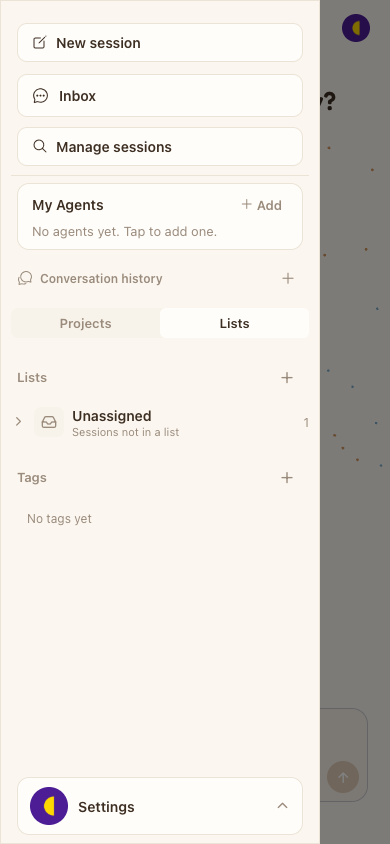
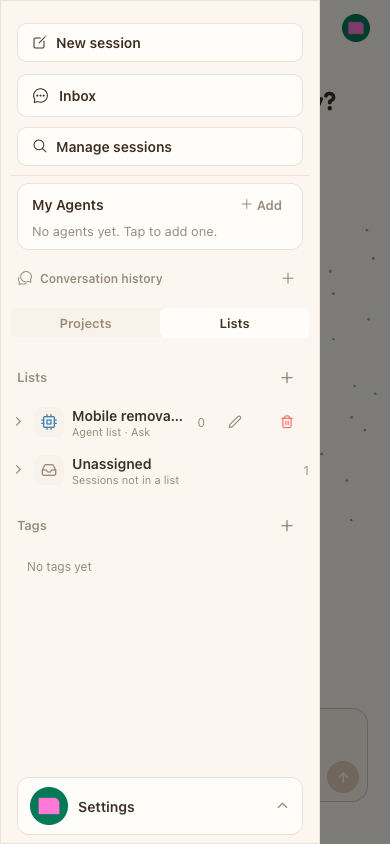
fix(app): expose sidebar list delete action

diff --git a/packages/happy-app/sources/components/DesktopSidebarSessionsNavigation.tsx b/packages/happy-app/sources/components/DesktopSidebarSessionsNavigation.tsx
@@ -141,6 +141,14 @@ const stylesheet = StyleSheet.create((theme) => ({
         minHeight: 46,
         paddingHorizontal: 10,
     },
+    listRowMain: {
+        alignItems: 'center',
+        alignSelf: 'stretch',
+        flex: 1,
+        flexDirection: 'row',
+        gap: 8,
+        minWidth: 0,
+    },
     listRowPressed: { backgroundColor: theme.colors.surfacePressed },
     listGlyph: { alignItems: 'center', borderRadius: 7, height: 30, justifyContent: 'center', width: 30 },
     listCopy: { flex: 1, minWidth: 0 },
@@ -454,6 +462,15 @@ function SidebarListsView() {
     const closeEditor = React.useCallback(() => setEditorVisible(false), []);
     const openSession = React.useCallback((session: SessionRowData) => navigateToSession(session.id), [navigateToSession]);
     const openOrganizer = React.useCallback((session: SessionRowData) => setOrganizingSession(session), []);
+    const deleteList = React.useCallback(async (list: SidebarList) => {
+        const confirmed = await Modal.confirm(
+            t('sidebarLists.deleteList'),
+            t('sidebarLists.deleteListConfirm', { name: list.name }),
+            { cancelText: t('common.cancel'), confirmText: t('common.delete'), destructive: true },
+        );
+        if (!confirmed) return;
+        updateOrganization((current) => removeSidebarList(current, list.id));
+    }, [updateOrganization]);
 
     const rows = React.useMemo<SidebarVirtualRow[]>(() => {
         const next: SidebarVirtualRow[] = [];
@@ -526,20 +543,25 @@ function SidebarListsView() {
                 : [list.machineId, list.path].filter(Boolean).join(' · ') || t('sidebarLists.workspaceList');
             return (
                 <View style={styles.listBlock}>
-                    <Pressable accessibilityRole="button" accessibilityState={{ expanded: isExpanded }} onPress={() => toggleExpanded(list.id)} style={({ pressed }) => [styles.listRow, pressed && styles.listRowPressed]} testID={`sidebar-list-${list.id}`}>
-                        <Feather color={theme.colors.textSecondary} name={isExpanded ? 'chevron-down' : 'chevron-right'} size={15} />
-                        <View style={[styles.listGlyph, { backgroundColor: theme.colors.surfaceHigh }]}>
-                            <Feather color={listColors[list.color]} name={list.kind === 'agent' ? 'cpu' : 'folder'} size={16} />
-                        </View>
-                        <View style={styles.listCopy}>
-                            <Text numberOfLines={1} style={styles.listName}>{list.name}</Text>
-                            <Text numberOfLines={1} style={styles.listMeta}>{meta}</Text>
-                        </View>
+                    <View style={styles.listRow}>
+                        <Pressable accessibilityRole="button" accessibilityState={{ expanded: isExpanded }} onPress={() => toggleExpanded(list.id)} style={({ pressed }) => [styles.listRowMain, pressed && styles.listRowPressed]} testID={`sidebar-list-${list.id}`}>
+                            <Feather color={theme.colors.textSecondary} name={isExpanded ? 'chevron-down' : 'chevron-right'} size={15} />
+                            <View style={[styles.listGlyph, { backgroundColor: theme.colors.surfaceHigh }]}>
+                                <Feather color={listColors[list.color]} name={list.kind === 'agent' ? 'cpu' : 'folder'} size={16} />
+                            </View>
+                            <View style={styles.listCopy}>
+                                <Text numberOfLines={1} style={styles.listName}>{list.name}</Text>
+                                <Text numberOfLines={1} style={styles.listMeta}>{meta}</Text>
+                            </View>
+                        </Pressable>
                         <Text style={styles.count}>{sessionIndex.byListId.get(list.id)?.length ?? 0}</Text>
-                        <Pressable accessibilityLabel={`${t('sidebarLists.editList')} ${list.name}`} onPress={(event) => { event.stopPropagation(); openEdit(list); }} style={({ pressed }) => [styles.iconButton, pressed && styles.iconButtonPressed]} testID={`sidebar-edit-list-${list.id}`}>
+                        <Pressable accessibilityLabel={`${t('sidebarLists.editList')} ${list.name}`} accessibilityRole="button" onPress={() => openEdit(list)} style={({ pressed }) => [styles.iconButton, pressed && styles.iconButtonPressed]} testID={`sidebar-edit-list-${list.id}`}>
                             <Feather color={theme.colors.textSecondary} name="edit-2" size={14} />
                         </Pressable>
-                    </Pressable>
+                        <Pressable accessibilityLabel={`${t('sidebarLists.deleteList')} ${list.name}`} accessibilityRole="button" onPress={() => void deleteList(list)} style={({ pressed }) => [styles.iconButton, pressed && styles.iconButtonPressed]} testID={`sidebar-delete-list-${list.id}`}>
+                            <Feather color={theme.colors.deleteAction} name="trash-2" size={14} />
+                        </Pressable>
+                    </View>
                 </View>
             );
         }
@@ -583,7 +605,7 @@ function SidebarListsView() {
                 {organization.tags.length === 0 ? <Text style={styles.empty}>{t('sidebarLists.noTags')}</Text> : null}
             </View>
         );
-    }, [addTag, createSession, expanded, listColors, openCreate, openEdit, openOrganizer, openSession, organization.lists.length, organization.tags, selectedSessionId, selectedTagId, sessionIndex, styles, theme.colors]);
+    }, [addTag, createSession, deleteList, expanded, listColors, openCreate, openEdit, openOrganizer, openSession, organization.lists.length, organization.tags, selectedSessionId, selectedTagId, sessionIndex, styles, theme.colors]);
 
     return (
         <View style={styles.container} testID="sidebar-lists-view">

diff --git a/packages/happy-app/sources/components/DesktopSidebarSessionsNavigation.test.tsx b/packages/happy-app/sources/components/DesktopSidebarSessionsNavigation.test.tsx
@@ -150,13 +150,16 @@ describe('DesktopSidebarSessionsNavigation', () => {
         let renderer: any;
         act(() => { renderer = TestRenderer.create(<DesktopSidebarSessionsNavigation />); });
         act(() => renderer.root.findByProps({ testID: 'desktop-sidebar-tab-lists' }).props.onPress());
-        act(() => renderer.root.findByProps({ testID: 'sidebar-edit-list-happy' }).props.onPress({ stopPropagation: vi.fn() }));
+        act(() => renderer.root.findByProps({ testID: 'sidebar-edit-list-happy' }).props.onPress());
 
         expect(renderer.root.findByProps({ testID: 'sidebar-list-name-input' }).props.value).toBe('Happy');
         expect(renderer.root.findAllByType('PickerContent').length).toBeGreaterThan(0);
         expect(renderer.root.findByProps({ testID: 'sidebar-list-directory-picker' }).findByType('PathPickerContent').props).toMatchObject({
             machineId: 'mac',
             manualInput: false,
+        });
+        expect(renderer.root.findByProps({ testID: 'sidebar-delete-list-happy' }).props).toMatchObject({
+            accessibilityRole: 'button',
         });
         act(() => renderer.root.findByProps({ testID: 'sidebar-list-directory-none' }).props.onPress());
         expect(renderer.root.findByProps({ testID: 'sidebar-list-directory-picker' }).findByType('PathPickerContent').props.value).toBe('');
@@ -190,7 +193,7 @@ describe('DesktopSidebarSessionsNavigation', () => {
         let renderer: any;
         act(() => { renderer = TestRenderer.create(<DesktopSidebarSessionsNavigation />); });
         act(() => renderer.root.findByProps({ testID: 'desktop-sidebar-tab-lists' }).props.onPress());
-        act(() => renderer.root.findByProps({ testID: 'sidebar-edit-list-happy' }).props.onPress({ stopPropagation: vi.fn() }));
+        act(() => renderer.root.findByProps({ testID: 'sidebar-edit-list-happy' }).props.onPress());
         act(() => renderer.root.findByProps({ testID: 'sidebar-list-name-input' }).props.onChangeText('Happy renamed'));
         act(() => renderer.root.findByProps({ testID: 'sidebar-edit-list-submit' }).props.onPress());
 
@@ -205,10 +208,9 @@ describe('DesktopSidebarSessionsNavigation', () => {
         } as any;
         expect(rename(current).lists[0].name).toBe('Happy renamed');
 
-        act(() => renderer.root.findByProps({ testID: 'sidebar-edit-list-happy' }).props.onPress({ stopPropagation: vi.fn() }));
         mocks.confirm.mockResolvedValueOnce(true);
         await act(async () => {
-            renderer.root.findByProps({ testID: 'sidebar-delete-list' }).props.onPress();
+            renderer.root.findByProps({ testID: 'sidebar-delete-list-happy' }).props.onPress();
             await Promise.resolve();
             await Promise.resolve();
         });
@@ -225,7 +227,7 @@ describe('DesktopSidebarSessionsNavigation', () => {
         act(() => { renderer = TestRenderer.create(<DesktopSidebarSessionsNavigation />); });
         act(() => renderer.root.findByProps({ testID: 'desktop-sidebar-tab-lists' }).props.onPress());
         act(() => renderer.root.findByProps({ testID: 'sidebar-list-advisor' }).props.onPress());
-        act(() => renderer.root.findByProps({ testID: 'sidebar-edit-list-advisor' }).props.onPress({ stopPropagation: vi.fn() }));
+        act(() => renderer.root.findByProps({ testID: 'sidebar-edit-list-advisor' }).props.onPress());
         expect(renderer.root.findAllByProps({ accessibilityLabel: 'newSession.askMode' })[0].props.accessibilityState).toEqual({ checked: true, disabled: true });
         act(() => renderer.root.findByProps({ testID: 'sidebar-create-list-cancel' }).props.onPress());
         act(() => renderer.root.findByProps({ testID: 'sidebar-new-session-advisor' }).props.onPress());

diff --git a/packages/happy-app/e2e/sidebar-lists-tags.spec.ts b/packages/happy-app/e2e/sidebar-lists-tags.spec.ts
@@ -399,8 +399,30 @@ test('[SIDEBAR-LISTS-TAGS-MOBILE] mobile drawer exposes Projects and Lists tabs'
         await expectMobileTouchTarget(page.getByTestId('sidebar-list-kind-workspace'));
         await expectMobileTouchTarget(page.getByTestId('sidebar-list-color-blue'));
         await expectMobileTouchTarget(page.getByTestId('sidebar-create-list-submit'));
-        await page.getByTestId('sidebar-create-list-cancel').click();
+        await page.getByTestId('sidebar-list-name-input').fill('Mobile removable');
+        await page.getByTestId('sidebar-list-kind-agent').click();
+        await page.getByTestId('sidebar-create-list-submit').click();
         await expect(page.getByText('New list', { exact: true })).toHaveCount(0);
+        const removableList = page.getByText('Mobile removable', { exact: true });
+        await expect(removableList).toBeVisible();
+        const deleteButton = page.getByRole('button', { name: 'Delete list Mobile removable', exact: true });
+        await expectMobileTouchTarget(deleteButton);
+        await expect(page.getByText(/cannot contain a nested/i)).toHaveCount(0);
+        await pauseForReview(page);
+        await captureEvidenceFrame(page, testInfo, 'mobile-02-delete-action');
+        await deleteButton.click();
+        await expect(page.getByText('Delete list', { exact: true })).toBeVisible();
+        await pauseForReview(page);
+        await captureEvidenceFrame(page, testInfo, 'mobile-03-delete-confirm');
+        await page.getByRole('button', { name: 'Delete', exact: true }).click();
+        await expect(removableList).toHaveCount(0);
+
+        await page.reload({ timeout: 180_000 });
+        await expect(page.getByRole('textbox')).toBeVisible({ timeout: 120_000 });
+        await page.getByTestId('compose-home-drawer-button').click();
+        await expect.poll(async () => (await accountFooter.boundingBox())?.x ?? -1).toBeGreaterThanOrEqual(0);
+        await expect(listsTab).toHaveAttribute('aria-selected', 'true');
+        await expect(page.getByText('Mobile removable', { exact: true })).toHaveCount(0);
 
         await expect.poll(async () => {
             const box = await accountFooter.boundingBox();
@@ -412,7 +434,7 @@ test('[SIDEBAR-LISTS-TAGS-MOBILE] mobile drawer exposes Projects and Lists tabs'
         }).toBe(true);
         await pauseForReview(page);
         await page.screenshot({ path: testInfo.outputPath('mobile-after-lists-tab.png'), fullPage: true });
-        await captureEvidenceFrame(page, testInfo, 'mobile-02-lists');
+        await captureEvidenceFrame(page, testInfo, 'mobile-04-lists');
     } finally {
         await page.close();
         await deleteSession(request, sessionId);

diff --git a/packages/happy-app/pr-evidence/sidebar-lists-tags-phase1/README.md b/packages/happy-app/pr-evidence/sidebar-lists-tags-phase1/README.md
@@ -11,8 +11,10 @@ harness in Chromium, English, light theme, and DPR 1.
   and the cross-list Tag filter.
 - Case 2, mobile 390x844: the drawer keeps Projects as the default and adds a
   compact Lists tab without navigating away from the current conversation.
-  The visible tab surface is at most 32px high while its touch target remains
-  at least 44px.
+  Created Lists expose separate edit and delete actions, deletion requires a
+  destructive confirmation, and the deleted List stays absent after reload.
+  The visible tab surface is at most 32px high and every affected action keeps
+  at least a 44px touch target.
 
 `case-3-after-100-sessions-responsive.png` is supplemental E2E evidence, not a
 third visual Before/After case. It shows that the 100-session group renders a
@@ -21,11 +23,16 @@ windowed subset and remains responsive when collapsed and expanded.
 Automated evidence:
 
 - `SIDEBAR-LISTS-TAGS`: create, rename, organize, Tag, delete, and reload.
-- `SIDEBAR-LISTS-TAGS-MOBILE`: compact tabs, touch targets, modal controls,
-  stable route, and no horizontal overflow.
+- `SIDEBAR-LISTS-TAGS-MOBILE`: compact tabs, touch targets, create/delete,
+  destructive confirmation, reload persistence, stable route, and no
+  horizontal overflow.
 - `SIDEBAR-LISTS-TAGS-PERF`: 100 sessions, virtualized mounting, and an expand
   response under five seconds.
 
 The stable desktop acceptance video is generated from eleven passing E2E states
 at 1440x900, H.264, yuv420p, 25fps. It passed `ffprobe`, full decode, and full
+duration contact-sheet review.
+
+The mobile List-delete acceptance video uses four passing E2E states at
+720x1558, H.264, yuv420p, 25fps. It passed `ffprobe`, full decode, and full
 duration contact-sheet review.
